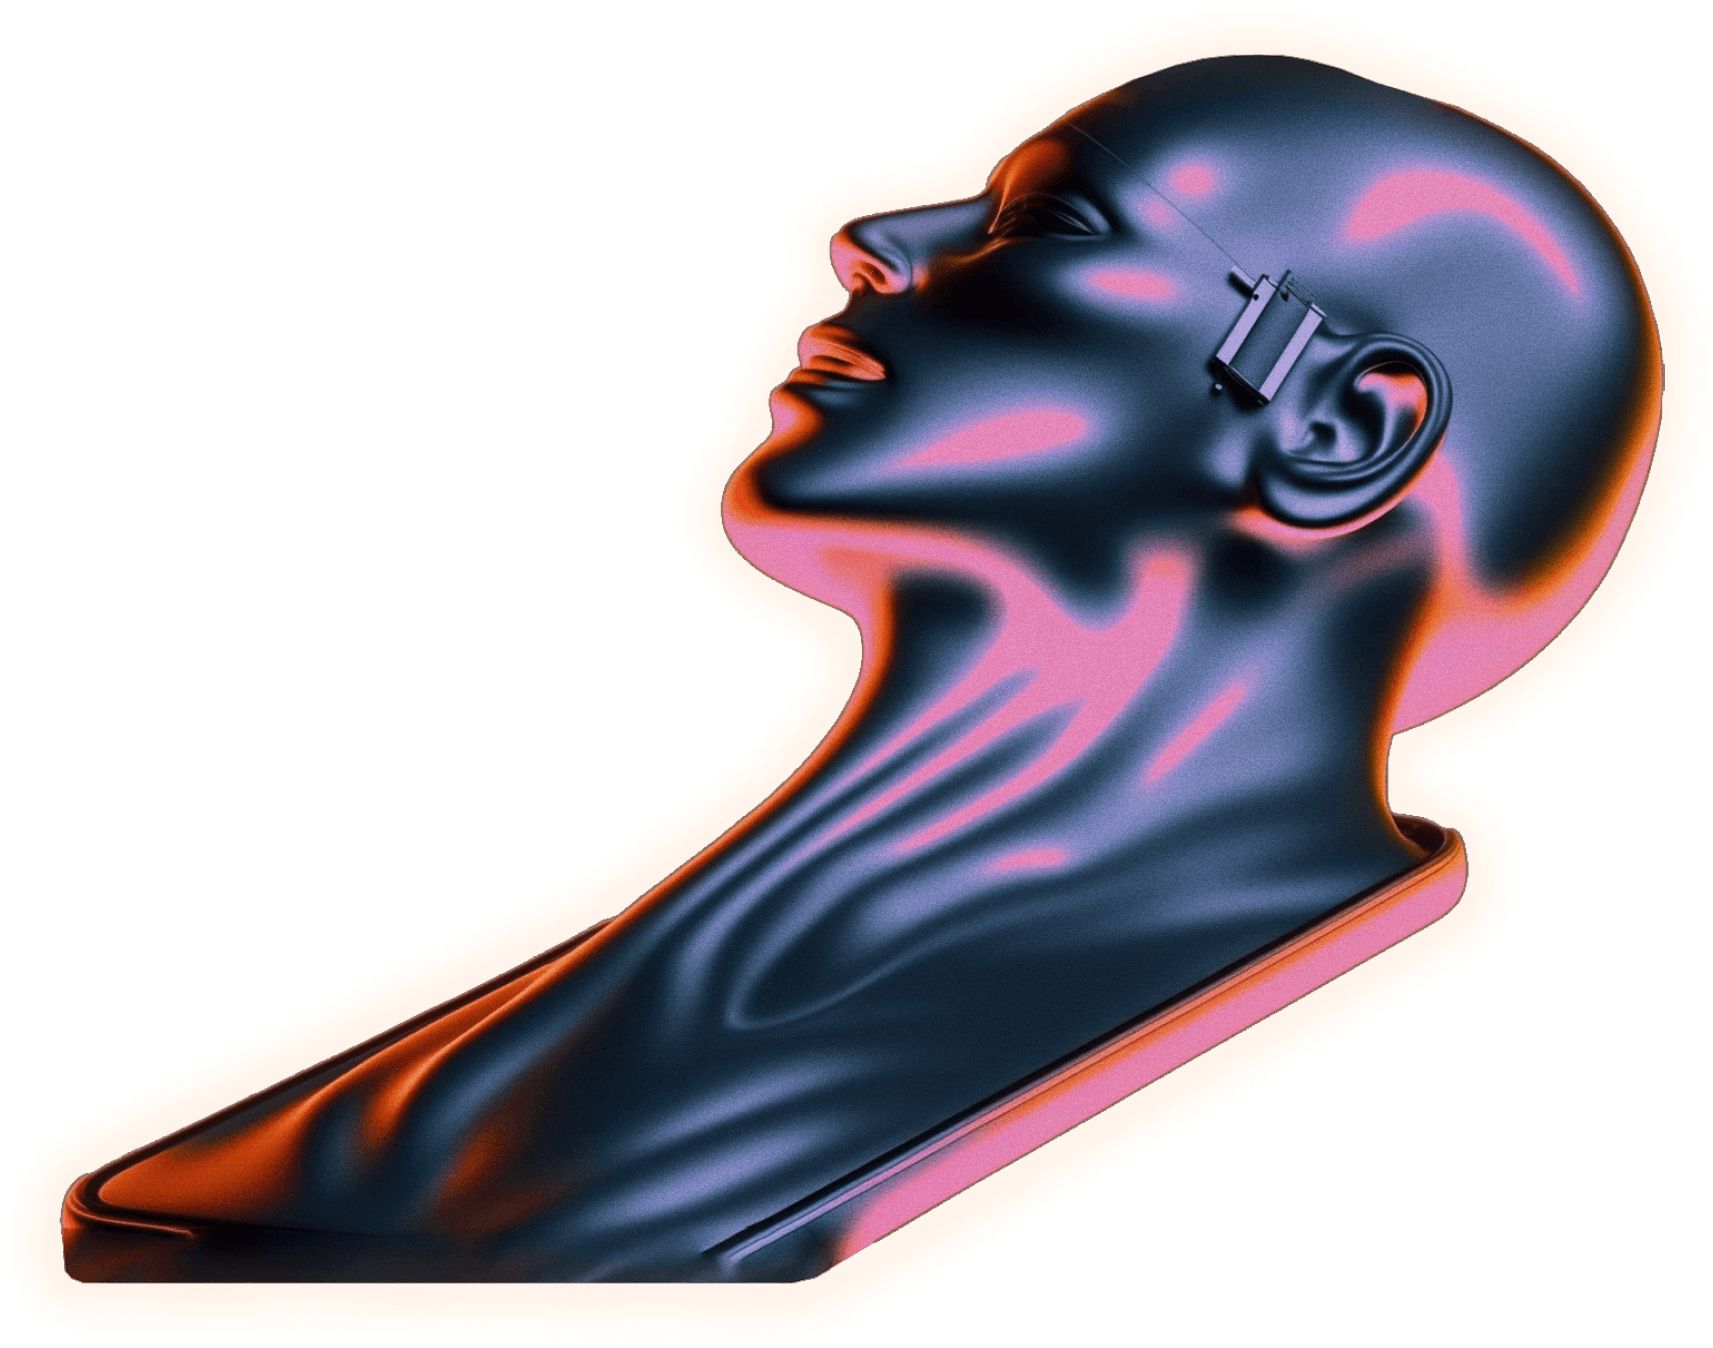
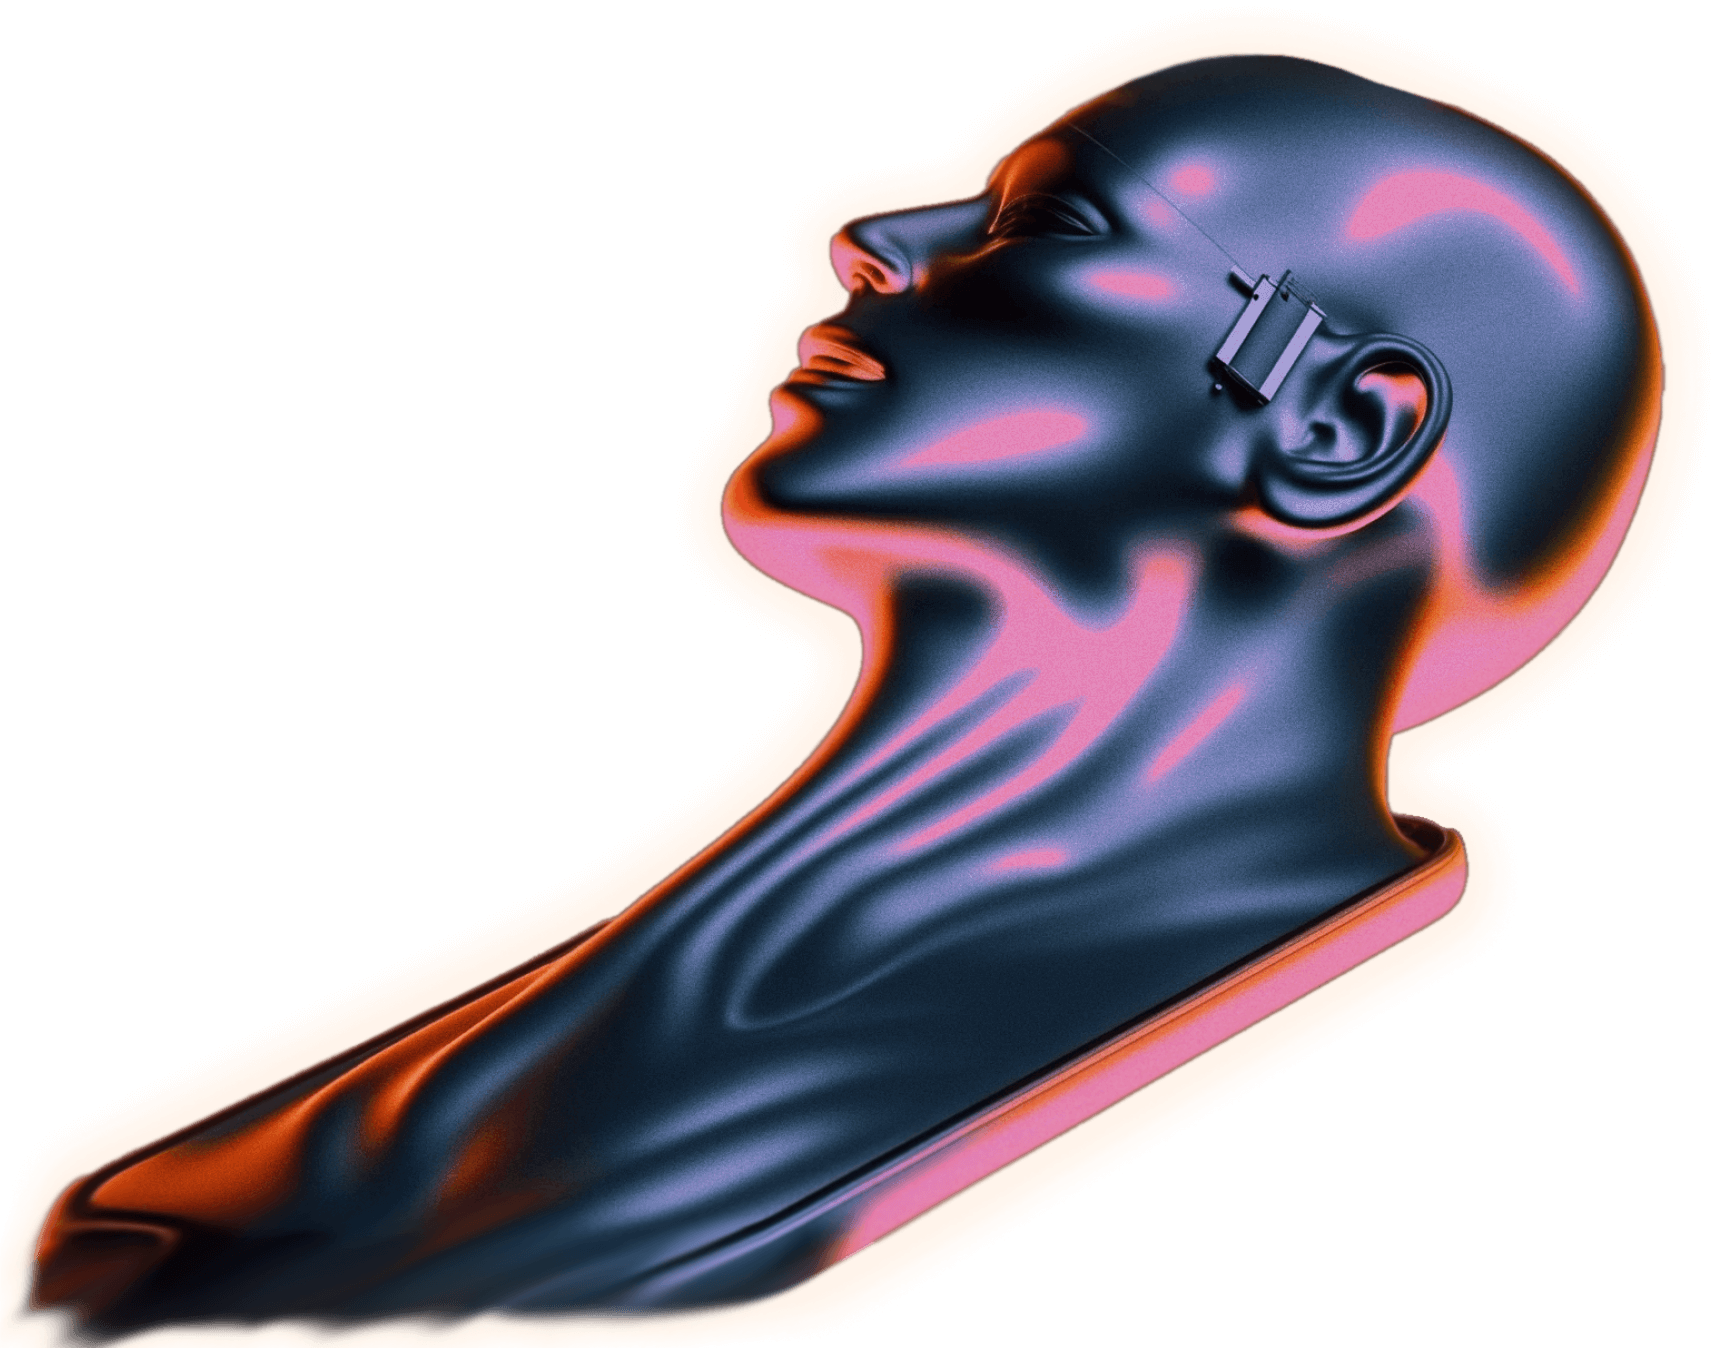
layer1 wip, transition3-4 + cosmetics

Changed region(s): [[0.0, 0.8724, 0.526, 1.0], [0.526, 0.8412, 0.5569, 0.8724]]

diff --git a/src/styles/5 layer1/Transition3_4.css b/src/styles/5 layer1/Transition3_4.css
@@ -4,6 +4,51 @@
     height: 1188.53px;
     left: -155px;
     top: 3074px;
-    background: #C83206;
     filter: blur(100px);
+}
+
+.transition-noise3-4 {
+    position: absolute;
+    width: 1728px;
+    height: 1536px;
+    left: 0px;
+    top: 2885px;
+    mix-blend-mode: overlay;
+    opacity: 0.5;
+}
+
+.limits-text3-4{
+    position: absolute;
+    width: 350px;
+    height: 58px;
+    left: 1268px;
+    top: 3132px;
+
+    font-family: 'Object Sans';
+    font-style: normal;
+    font-weight: 400;
+    font-size: 50.52px;
+    line-height: 52px;
+
+    color: #FFFFFF;
+}
+
+.chatting-text3-4{
+    position: absolute;
+    width: 955px;
+    height: 344px;
+    left: 121px;
+    top: 3395px;
+
+    /* H2 */
+
+    font-family: 'Object Sans';
+    font-style: normal;
+    font-weight: 400;
+    font-size: 50.52px;
+    line-height: 115%;
+    /* or 58px */
+
+
+    color: #FFFFFF;
 }

diff --git a/src/components/5 layer1/Transition3_4.js b/src/components/5 layer1/Transition3_4.js
@@ -1,10 +1,16 @@
 import React from 'react';
+
+import '../../styles/5 layer1/Transition3_4.css'
 import transitionImage34 from '../../images/3-overlay-grad.png'
+import transitionNoise34 from '../../images/3-overlay-noise.png'
 
 function Transition34() {
     return (
       <div>
         <img src={transitionImage34} alt="transition-image3-4" className="transition-image3-4" />
+        <img src={transitionNoise34} alt="transition-noise3-4" className="transition-noise3-4" />
+        <p className="limits-text3-4">without limits</p>
+        <h2 className="chatting-text3-4">Simply start chatting<br/><br/>Ask questions, engage in discussions, generate images, retrieve information from the web, create code and infinitely more</h2>
       </div>
     );
   }

diff --git a/src/styles/5 layer1/Elements6.css b/src/styles/5 layer1/Elements6.css
@@ -18,11 +18,11 @@
 }
 
 .gradient6 {
-    position: absolute;
-    width: 2690.78px;
-    height: 2672.6px;
-    left: -521.39px;
-    top: 5670.5px;
+  position: absolute;
+  width: 2303.8px;
+  height: 2672.6px;
+  left: -17.4px;
+  top: 5875.5px;
 }
 
 .noise6 {
@@ -30,7 +30,7 @@
     width: 1728px;
     height: 1749px;
     left: 0px;
-    top: 5958px;
+    top: 6047px;
     background: url(../../images/6-noise.png), #D9D9D9;
     mix-blend-mode: overlay;
     opacity: 0.5;

diff --git a/src/styles/5 layer1/Layer1.css b/src/styles/5 layer1/Layer1.css
@@ -1,9 +1,7 @@
 .transition4-5 {
     position: absolute;
-    width: 2067.77px;
+    width: 1828.8px;
     height: 500.74px;
-    left: -215px;
-    top: 4732.11px;
-    box-shadow: inset 47px 114px 4px rgba(0, 0, 0, 0.25);
-    filter: blur(75px);
+    left: -161px;
+    top: 4792.1px;
 }

diff --git a/src/styles/1 layer3/Layer3.css b/src/styles/1 layer3/Layer3.css
@@ -9,7 +9,7 @@
   .noise-image3 {
     position: absolute;
     width: 1728px;
-    height: 1254px;
+    height: 1068px;
     left: 0px;
     top: 2371px;
     background: #D9D9D9;

diff --git a/src/styles/4 layer2/Layer2.css b/src/styles/4 layer2/Layer2.css
@@ -1,7 +1,7 @@
 .bg-gradient2 {
     position: absolute;
     width: 1847.51px;
-    height: 1187.97px;
+    height: 1297px;
     left: -57.12px;
     top: 1117px;
   }

diff --git a/src/styles/LandingPage.css b/src/styles/LandingPage.css
@@ -50,7 +50,7 @@
   width: 1728px;
   height: 1007px;
   left: 0;
-  top: 4951px;
+  top: 5040px;
   background: #D9D9D9;
   mix-blend-mode: overlay;
   opacity: 0.5;
